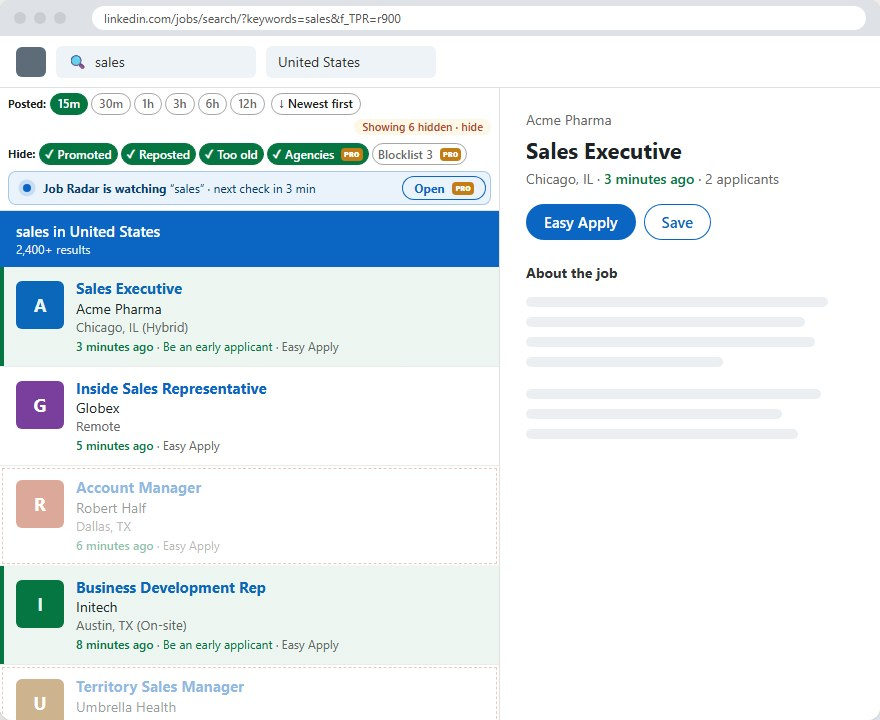
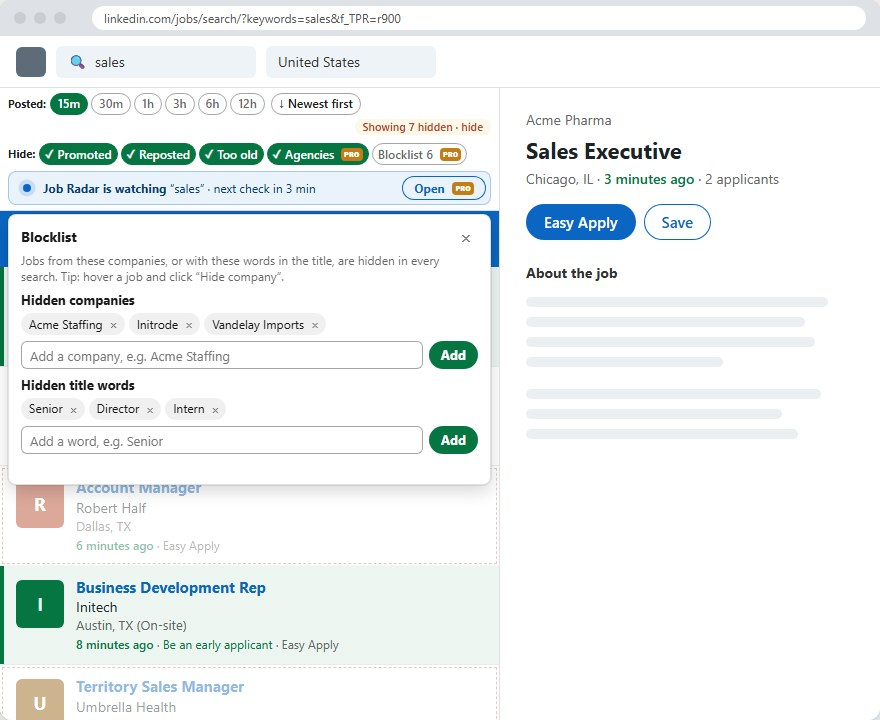
Homepage: hide companies & job titles first; new screenshots

diff --git a/index.html b/index.html
@@ -102,15 +102,15 @@
       <article class="feature reveal">
         <div class="feature__text">
           <div class="feature__icon"><svg viewBox="0 0 24 24" fill="none" stroke="currentColor" stroke-width="2" stroke-linecap="round" aria-hidden="true"><path d="M3 5h18l-7 8v6l-4-2v-4z"/></svg></div>
-          <h3>Hide the noise</h3>
-          <p>Promoted posts, reposts, old listings and staffing agencies push real openings down. Switch them off with a tap.</p>
+          <h3>Hide companies and job titles you don't want</h3>
+          <p>Block a company once and it never shows up in your searches again. Block job titles by word: a fresher can hide "Senior" and "Lead", a developer can hide "Sales" or "BPO".</p>
           <ul class="ticks">
-            <li>Hide promoted, reposted and too-old jobs</li>
-            <li>Block companies or title words you never want to see</li>
+            <li>One click "Hide company" on any job card</li>
+            <li>Also hides promoted, reposted and too-old jobs, and staffing agencies</li>
             <li>"N hidden · show" lets you peek at what was filtered</li>
           </ul>
         </div>
-        <figure class="shot"><img src="img/hide-noise.jpg" width="880" height="720" alt="Hide toggles for promoted, reposted, too old and agencies above a cleaner job list" loading="lazy"></figure>
+        <figure class="shot"><img src="img/hide-noise.jpg" width="880" height="720" alt="The Blocklist panel with hidden companies and job title words, above a cleaner job list" loading="lazy"></figure>
       </article>
 
       <article class="feature reveal">
